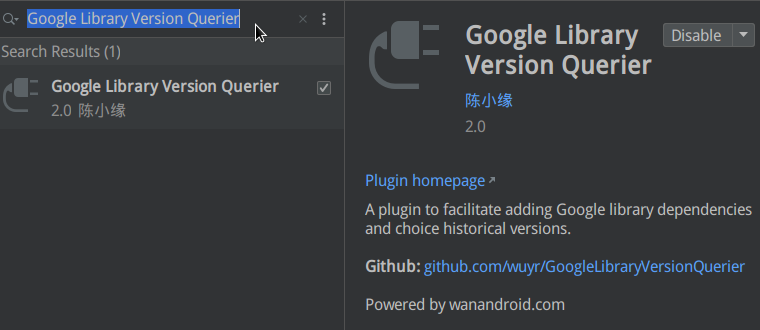
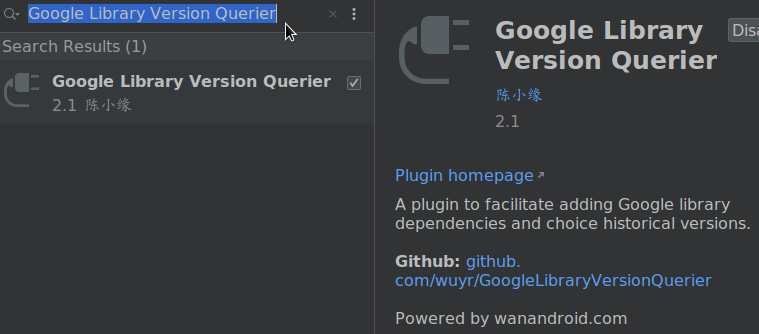
Released 2.1

diff --git a/src/com/wuyr/google_library_query/QueryAction.kt b/src/com/wuyr/google_library_query/QueryAction.kt
@@ -29,6 +29,7 @@ class QueryAction : AnAction() {
 
             val semicolon = ":"
             if (!currentLineContent.contains(semicolon)) {
+                Messages.showErrorDialog("Please locate the line of the target library.", "Library Not Found")
                 return
             }
 
@@ -50,22 +51,23 @@ class QueryAction : AnAction() {
 
             try {
                 getAvailableVersions(libraryGroup, libraryName)?.let {
-                    VersionSelectorDialog.show(DefaultListModel<String>().apply {
-                        getAvailableVersions(libraryGroup, libraryName)?.forEach { addElement(it) }
-                    }) { latestVersion ->
+                    VersionSelectorDialog.show(DefaultListModel<String>().apply { it.forEach { addElement(it) } }) { selectedVersion ->
                         val oldVersionStart = currentLineContent.lastIndexOf(semicolon)
                         val oldVersionEnd = currentLineContent.lastIndexOf(if (isSingleQuotation) singleQuotation else doubleQuotation)
                         val oldVersionString = currentLineContent.substring(oldVersionStart, oldVersionEnd)
-                        val newLineContent = currentLineContent.replace(oldVersionString, semicolon + latestVersion)
+                        val newLineContent = currentLineContent.replace(oldVersionString, semicolon + selectedVersion)
 
                         WriteCommandAction.runWriteCommandAction(event.project) {
                             editor.document.replaceString(lineStartPosition, lineEndPosition, newLineContent)
                         }
                     }
                 }
-                        ?: Messages.showErrorDialog("Please check if the library belongs to Google.", "Library Not Found!")
+                        ?: Messages.showErrorDialog("Please check if the library belongs to Google.", "Library Not Found")
             } catch (e: Exception) {
-                Messages.showErrorDialog(StringWriter().apply { PrintWriter(this).apply { RuntimeException().printStackTrace(this) } }.toString(), "Error")
+                Messages.showErrorDialog(StringWriter().apply { PrintWriter(this).apply {
+                    println("Please copy the following log and go to https://github.com/wuyr/GoogleLibraryVersionQuerier to create a issues:\n")
+                    e.printStackTrace(this)
+                } }.toString(), "Error")
             }
         }
     }

diff --git a/src/com/wuyr/google_library_query/NetworkRequstter.kt b/src/com/wuyr/google_library_query/NetworkRequstter.kt
@@ -27,7 +27,6 @@ fun getAvailableVersions(libraryGroup: String, libraryName: String) = search("$l
     }
 }
 
-@Throws(java.lang.Exception::class)
 fun matchingLibraries(keyword: String) = ArrayList<Pair<String, String>>().apply {
     runSafely {
         search(keyword) { dataList ->
